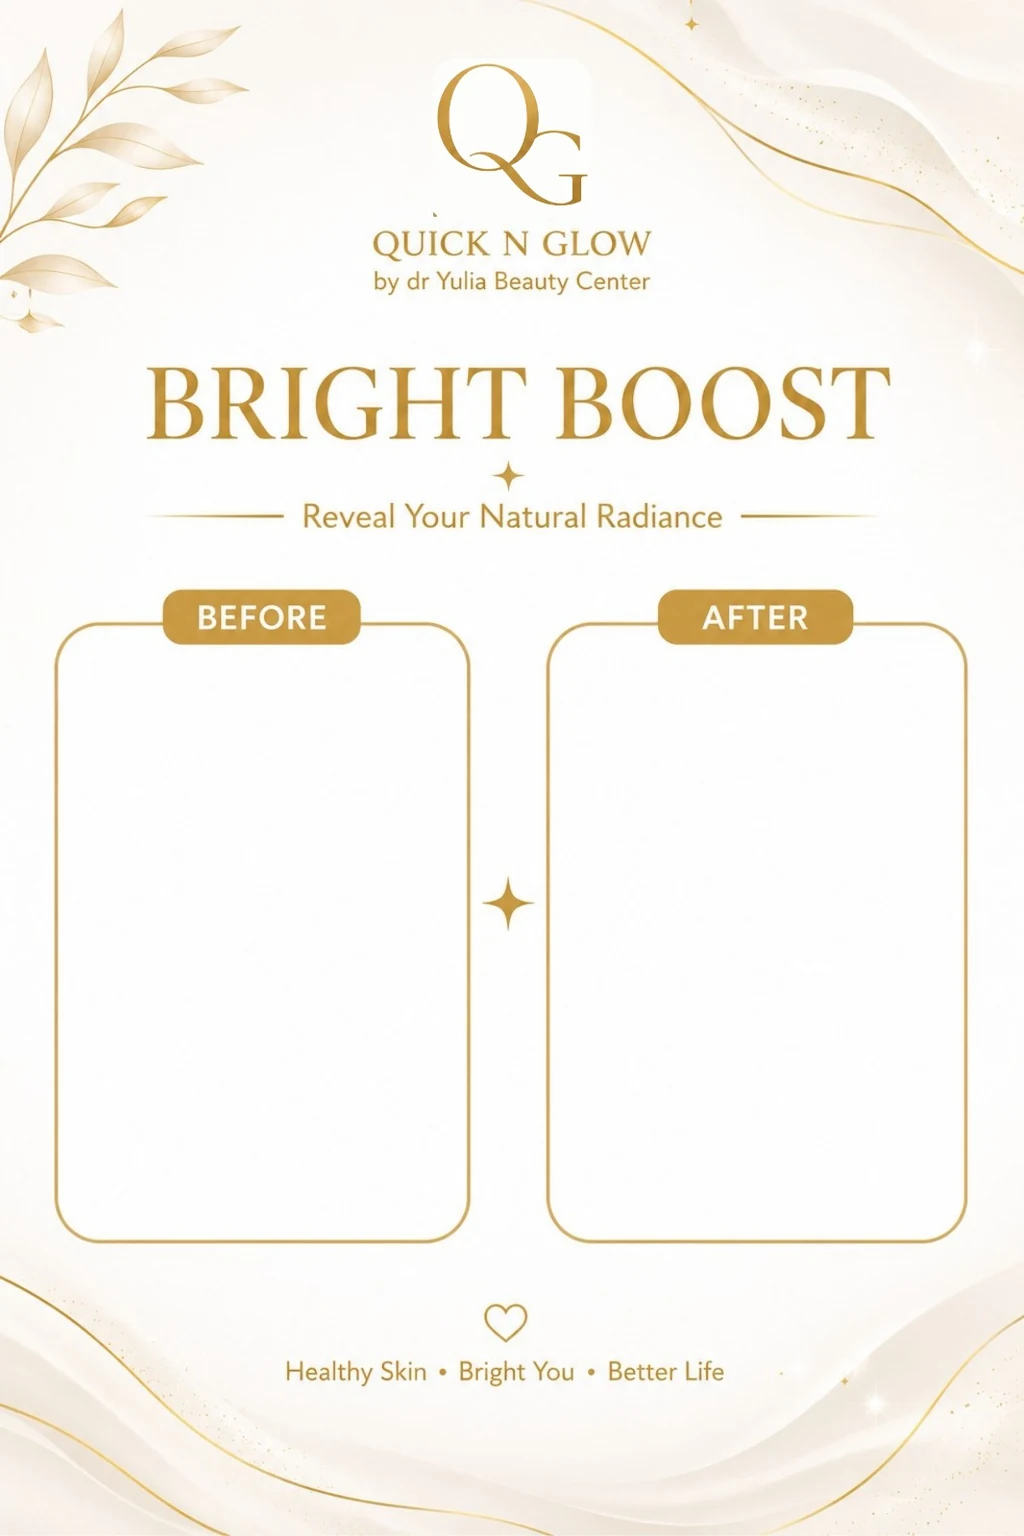
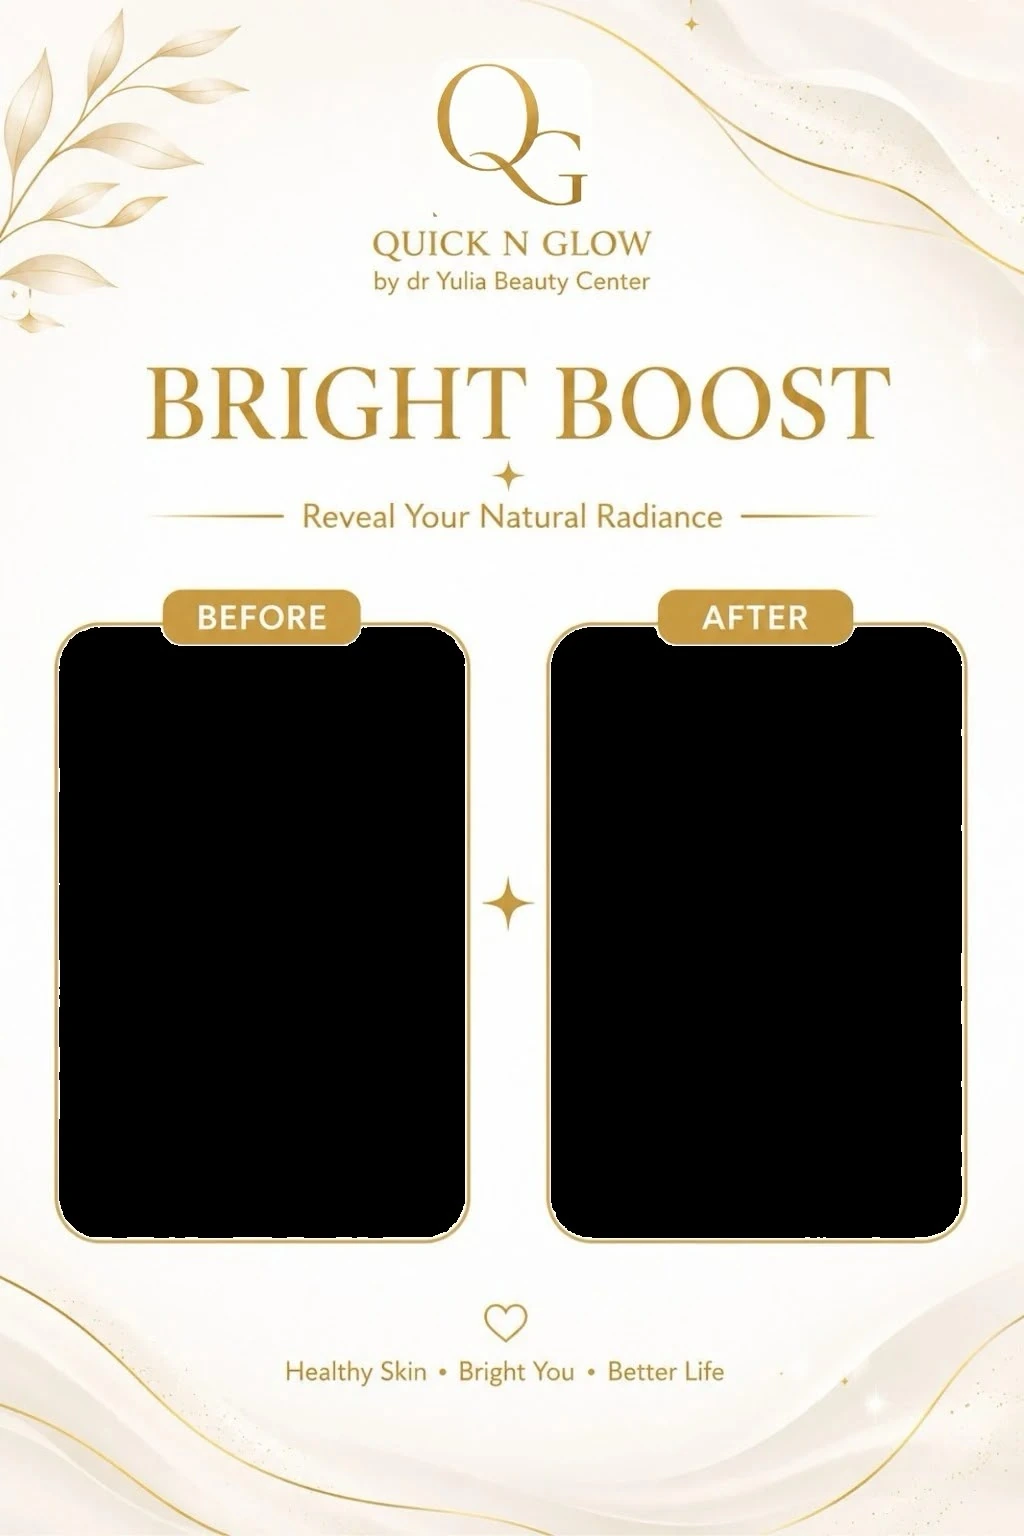
Update desain template + judul tab

diff --git a/lib/templates.js b/lib/templates.js
@@ -17,8 +17,8 @@ export const treatments = [
       name: "Bright Template",
       image: "/templates/bright/bright1.webp",
       frame: "/templates/bright/bright1-frame.webp",
-      before: { x: 59, y: 651, width: 407, height: 588 },
-      after: { x: 551, y: 651, width: 412, height: 588 },
+      before: { x: 59, y: 627, width: 406, height: 611 },
+      after: { x: 551, y: 627, width: 411, height: 611 },
     },
   },
   {
@@ -29,8 +29,8 @@ export const treatments = [
       name: "Clear Template",
       image: "/templates/clear/clear1.webp",
       frame: "/templates/clear/clear1-frame.webp",
-      before: { x: 63, y: 645, width: 404, height: 579 },
-      after: { x: 553, y: 645, width: 409, height: 579 },
+      before: { x: 62, y: 619, width: 406, height: 606 },
+      after: { x: 552, y: 619, width: 410, height: 606 },
     },
   },
   {
@@ -41,8 +41,8 @@ export const treatments = [
       name: "Prime Template",
       image: "/templates/prime/prime1.webp",
       frame: "/templates/prime/prime1-frame.webp",
-      before: { x: 64, y: 670, width: 401, height: 560 },
-      after: { x: 553, y: 670, width: 401, height: 560 },
+      before: { x: 62, y: 643, width: 405, height: 589 },
+      after: { x: 552, y: 643, width: 403, height: 589 },
     },
   },
 ];

diff --git a/app/layout.js b/app/layout.js
@@ -12,8 +12,8 @@ const geistMono = Geist_Mono({
 });
 
 export const metadata = {
-  title: "Create Next App",
-  description: "Generated by create next app",
+  title: "Quick N Glow — Before & After Generator",
+  description: "Generator foto before & after treatment untuk Quick N Glow Beauty Center.",
 };
 
 export default function RootLayout({ children }) {
